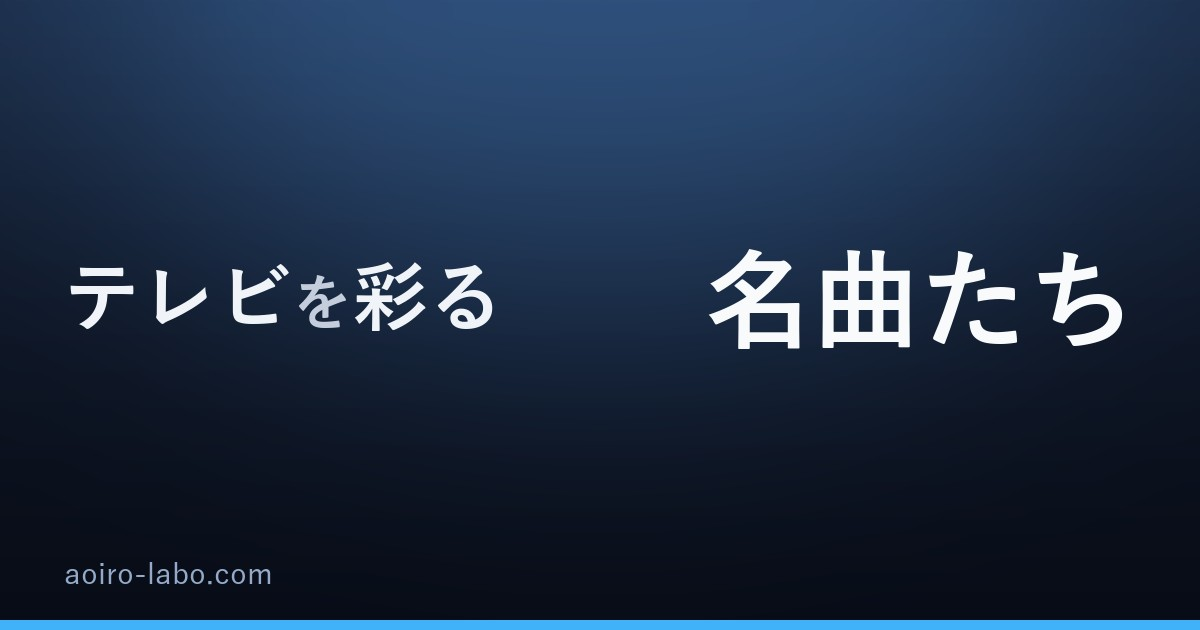
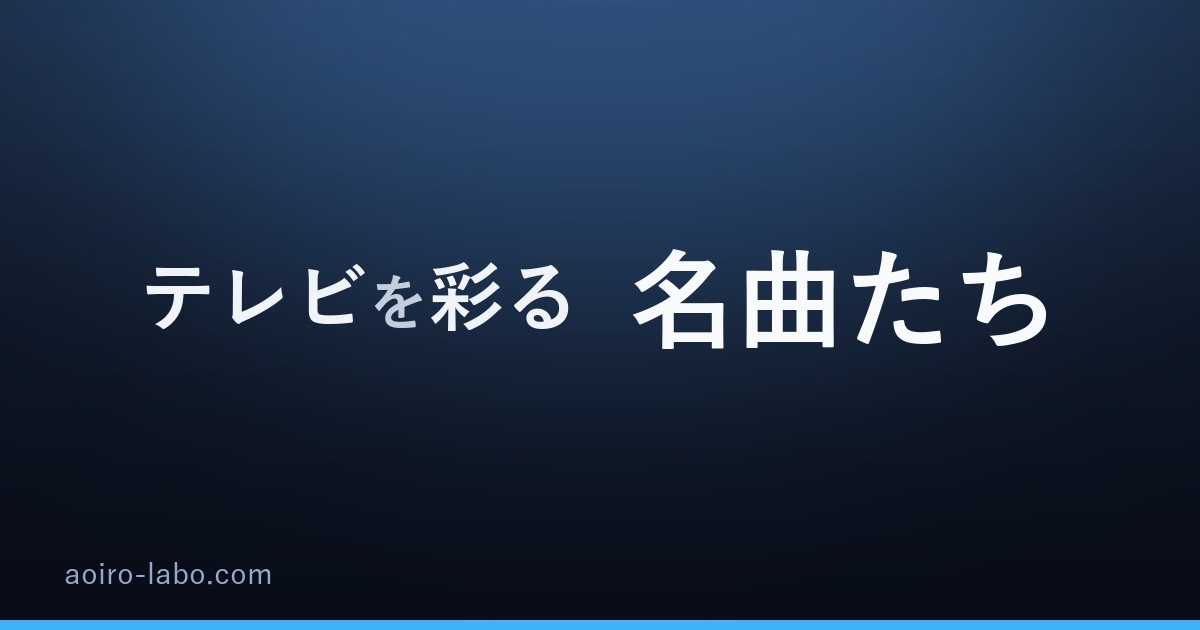
カバー：ゾーン配置で左右を寄せてグループとして中央に置く

Changed region(s): [[0.5242, 0.3921, 0.9558, 0.573], [0.0617, 0.4222, 0.4933, 0.5429]]

diff --git a/tools/generate_cover.py b/tools/generate_cover.py
@@ -239,11 +239,11 @@ def draw_lines(d, items, lines, widths, x0, y_top, size, acc, heights):
         y+=heights[li]
     return y
 
-def finish(d, img, cat, tags, acc, y, out):
+def finish(d, img, cat, tags, acc, y, out, x0=None):
     if tags:
         y += 30
         tf=ImageFont.truetype(REG, 27)
-        x=MARGIN
+        x=MARGIN if x0 is None else x0
         for tg in tags[:5]:
             label='#'+tg
             tw=d.textlength(label, font=tf)
@@ -488,17 +488,22 @@ def make(path, out, hero_override=None, emphasis_override=None):
             kw_font=ImageFont.truetype(BOLD, ksize)
             kw_w=d.textlength(hero, font=kw_font)
             kw_bb=d.textbbox((0,0), hero, font=kw_font)
+            line_ws=[]; _idx=0
+            for ln in lines:
+                line_ws.append(sum(widths[_idx:_idx+len(ln)])); _idx+=len(ln)
+            maxlw=max(line_ws)
+            gx = max(MARGIN, (W - (maxlw + 48 + kw_w))//2)
             total = cat_h + block_h + (30 if tags else 0) + chips_h
             y = (H - total)//2 - 14
             if cat:
-                d.text((MARGIN, y), cat, font=ImageFont.truetype(BOLD, 34), fill=acc); y += 34+30
+                d.text((gx, y), cat, font=ImageFont.truetype(BOLD, 34), fill=acc); y += 34+30
             if bracket:
-                d.text((MARGIN, y), bracket, font=ImageFont.truetype(BOLD, 30), fill=SUBC); y += bracket_h
+                d.text((gx, y), bracket, font=ImageFont.truetype(BOLD, 30), fill=SUBC); y += bracket_h
             title_top = y
-            draw_lines(d, items, lines, widths, MARGIN, y, size, acc, heights)
-            d.text((W-MARGIN-kw_w, title_top - kw_bb[1]), hero, font=kw_font, fill=WHITE)
+            draw_lines(d, items, lines, widths, gx, y, size, acc, heights)
+            d.text((gx + maxlw + 48, title_top - kw_bb[1]), hero, font=kw_font, fill=WHITE)
             y += block_h
-            finish(d, img, cat, tags, acc, y, out)
+            finish(d, img, cat, tags, acc, y, out, x0=gx)
             print('made (zone)', out, '| hero:', hero)
             return
     # full-width flow (hero inline if it is a suffix, else plain)
